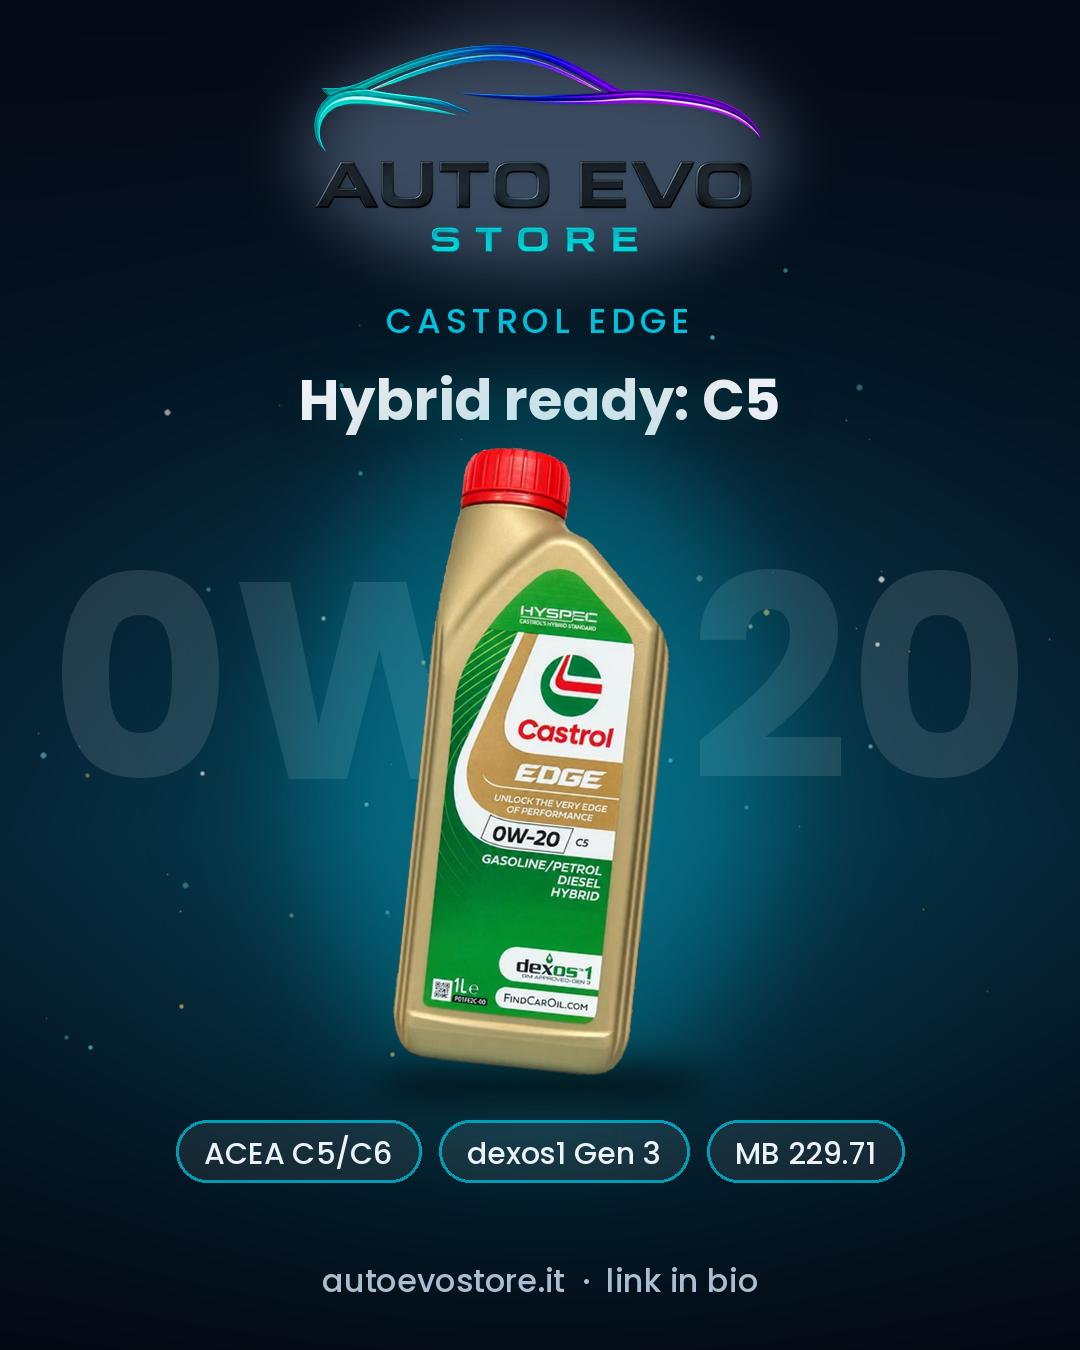
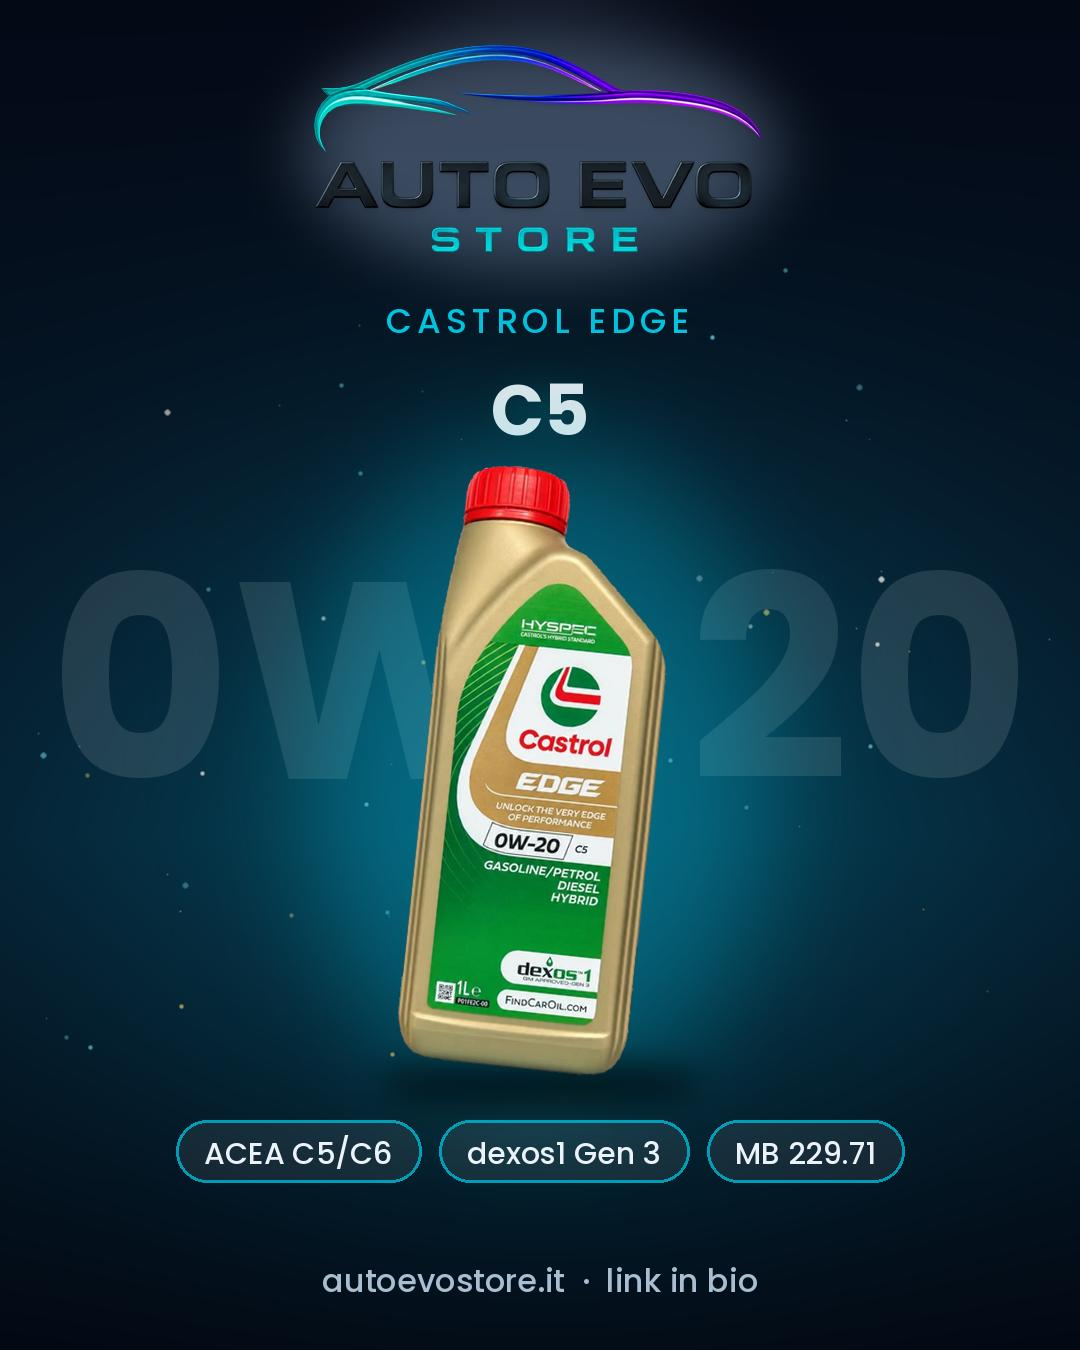
Fix titolo C5
Claude-Session: https://claude.ai/code/session_018L9Jja3qhjGQFLh5gyKAdh

Changed region(s): [[0.275, 0.28, 0.7333, 0.7778]]

diff --git a/tools/gen_photo1.py b/tools/gen_photo1.py
@@ -19,7 +19,7 @@ save(text_slide('Scrivici in DM',['Targa + modello','+ anno.'],body='Verifichiam
 save(hero('petronas_xs_5w30','Petronas Syntium Prime XS',['5W-30'],chips=('ACEA C3','dexos2 / dexos D','API SN')),O+'prod14_xs.jpg')
 save(split('mobil1_esp_5w30','Mobil 1',['ESP','5W-30'],['Olio motore sintetico','ACEA C3','BMW LL-04','MB 229.52','VW 504.00 / 507.00']),O+'prod15_mobil.jpg')
 save(bigspec('castrol_edge_ll3_5w30','5W-30','Castrol EDGE Professional',['LongLife III'],chips=('ACEA C3','VW 504.00/507.00','MB 229.52')),O+'prod19_castrol.jpg')
-save(bigspec('castrol_edge_0w20_c5','0W-20','Castrol EDGE',['Hybrid ready: C5'],chips=('ACEA C5/C6','dexos1 Gen 3','MB 229.71'),fonts=56),O+'prod22_c5.jpg')
+save(bigspec('castrol_edge_0w20_c5','0W-20','Castrol EDGE',['C5'],chips=('ACEA C5/C6','dexos1 Gen 3','MB 229.71'),fonts=70),O+'prod22_c5.jpg')
 save(hero('mannol_atf_dexron3','MANNOL Automatic Plus ATF',['Dexron III'],chips=('Cambi automatici','Servosterzo','TO-2')),O+'prod26_atf.jpg')
 save(bigspec('total_ineo_mc3','5W-30','TotalEnergies Quartz',['Ineo MC3'],chips=('ACEA C3','API SN PLUS','Low SAPS')),O+'prod29_total.jpg')
 save(split('mannol_8118','MANNOL',['Ultra Gear','Oil 8118'],['Olio semisintetico','SAE 75W-90','API GL-5','SAE J2360','Cambi e differenziali']),O+'prod02_8118.jpg')
